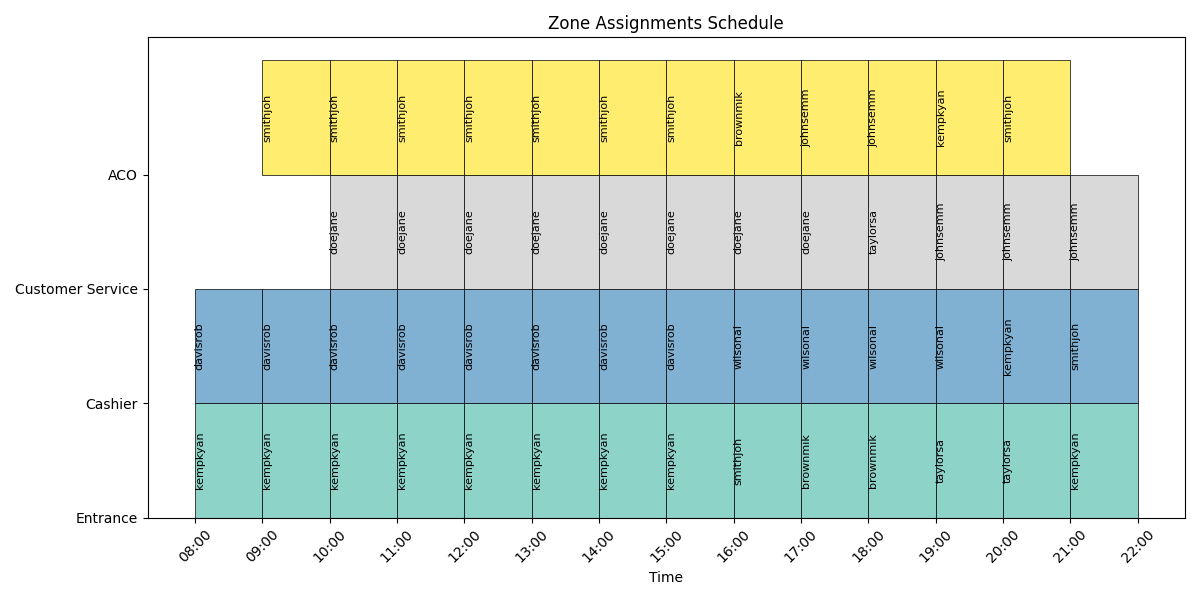
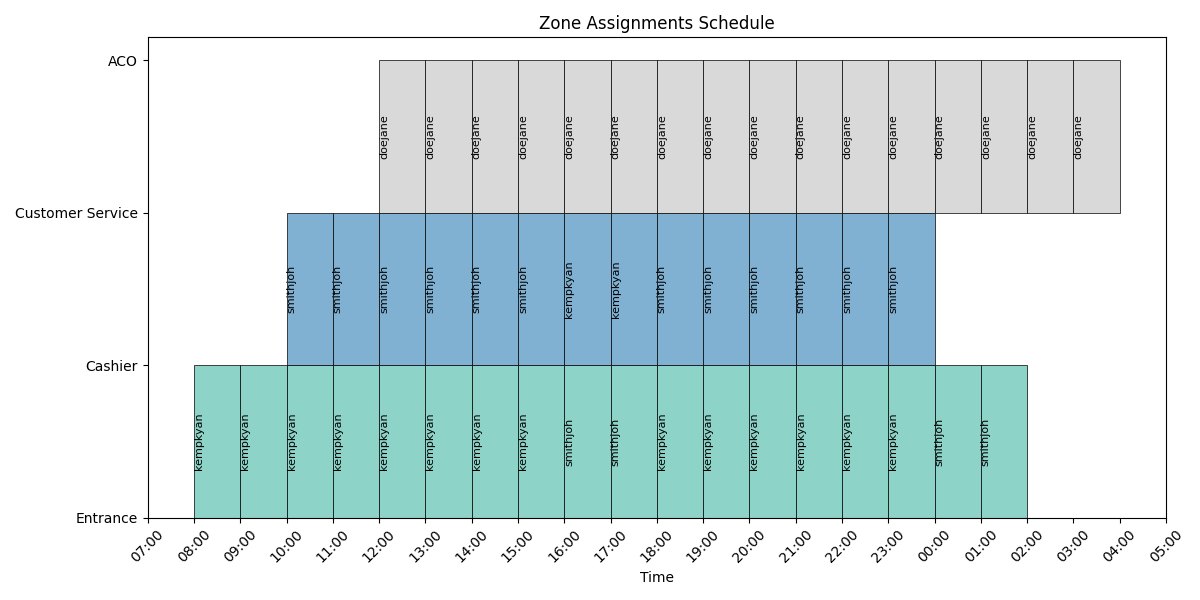
feat: Extend store hours and improve printable schedule generation
- Extend the store hours in the `generate_printable_schedule` function to 11:59 PM
- Improve the logic for finding the employee assigned to a given time slot in the printable schedule
- Ensure the printable schedule is always successfully written to the `printable_schedule.txt` file

BREAKING CHANGE: The `generate_output` function has been removed as it was no longer being used.

Fixes #2

diff --git a/main.py b/main.py
@@ -92,9 +92,8 @@ from prettytable import PrettyTable
 from datetime import datetime, timedelta
 
 def generate_printable_schedule(zones):
-    # Set the store hours
     start_time = datetime.combine(datetime.today(), datetime.min.time()).replace(hour=8)
-    end_time = datetime.combine(datetime.today(), datetime.min.time()).replace(hour=22)
+    end_time = datetime.combine(datetime.today(), datetime.min.time()).replace(hour=23, minute=59)
 
     table = PrettyTable()
     table.field_names = ["Time"] + [zone.name for zone in zones]
@@ -103,19 +102,17 @@ def generate_printable_schedule(zones):
     while current_time <= end_time:
         row = [current_time.strftime('%H:%M')]
         for zone in zones:
-            employee = zone.assignments.get(current_time, None)
+            employee = next((emp for time, emp in zone.assignments.items() 
+                             if time.hour == current_time.hour and time.date() == start_time.date()), None)
             row.append(employee.alias if employee else "-")
         table.add_row(row)
         current_time += timedelta(hours=1)
 
     print(table)
 
-    try:
-        with open('printable_schedule.txt', 'w') as f:
-            f.write(str(table))
-        print("Printable schedule successfully saved as printable_schedule.txt")
-    except IOError as e:
-        print(f"Error writing to file: {e}")
+    with open('printable_schedule.txt', 'w') as f:
+        f.write(str(table))
+    print("Printable schedule successfully saved as printable_schedule.txt")
 
     if os.path.exists('printable_schedule.txt'):
         print("File creation verified.")
